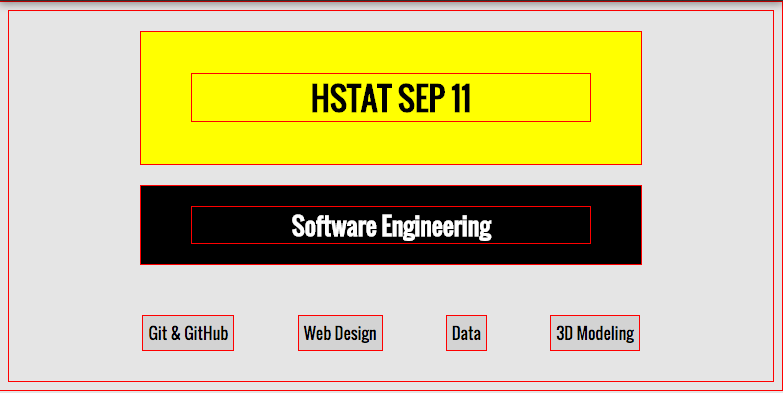
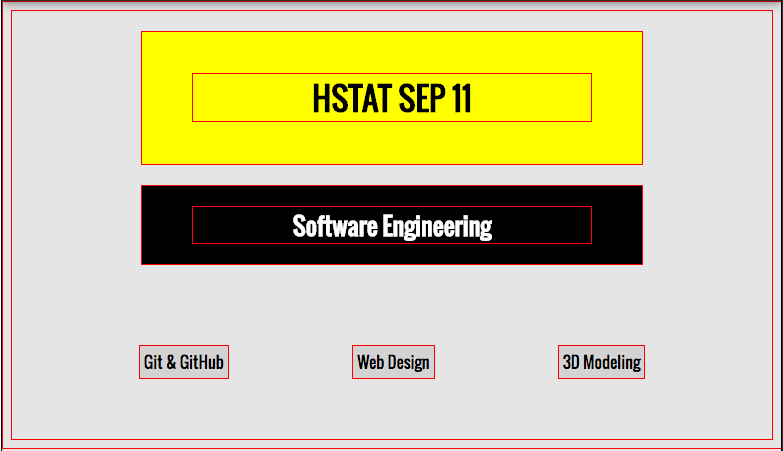
update topics

diff --git a/index.html b/index.html
@@ -21,9 +21,6 @@
           Web Design
       </div>
       <div class="topic">
-          Data
-      </div>
-      <div class="topic">
           3D Modeling
       </div>
       
